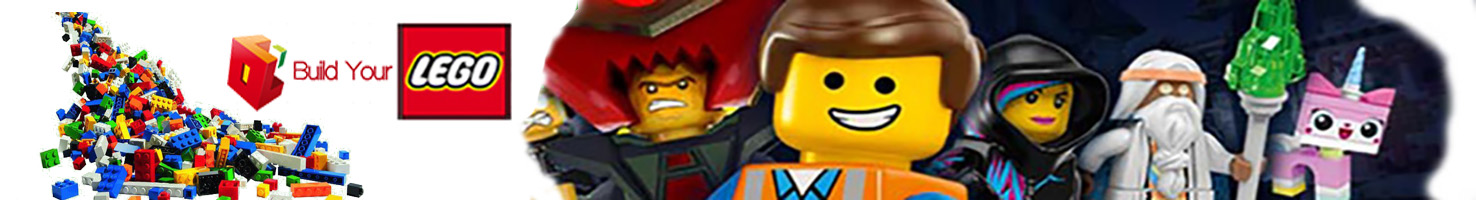
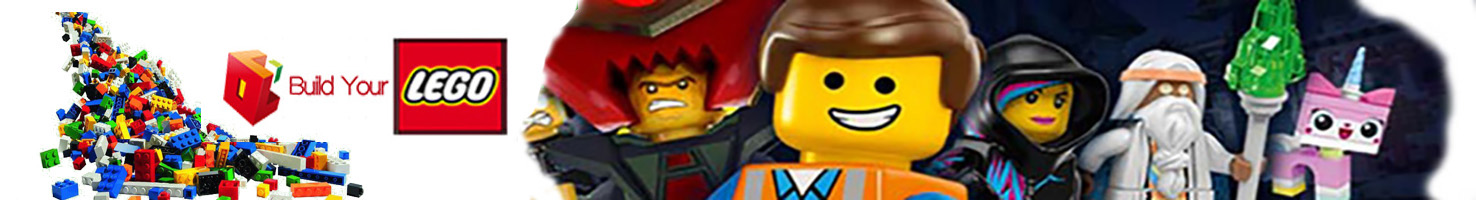
Petite modif banniere

Changed region(s): [[0.1247, 0.09, 0.374, 0.72]]

diff --git a/EcomLego/ecomweb/src/main/webapp/css/index.css b/EcomLego/ecomweb/src/main/webapp/css/index.css
@@ -13,7 +13,7 @@ body {
     -webkit-border-radius: 101px;
     -moz-border-radius: 101px;
     border-radius: 101px;
-    /* Bacground couleur dÃƒÂ©gradÃƒÂ© */
+    /* Bacground couleur dÃƒÆ’Ã‚Â©gradÃƒÆ’Ã‚Â© */
     /* background:-webkit-gradient(linear, 11% 56%, 10% 32%, from(#EBFFFF), to(#C9FFFF)); */
 
     /* Aligner pour que la barre de navigation haut ne parte pas en vrille */
@@ -231,12 +231,12 @@ a {
 -------------------------------------------------------------------------------------------------------------------------- */
 #header{
     display: inline-block;
-    width: 1100px;
+    width: 1160px;
     background-image: url(../img/banniere.jpg);
     height: 200px;
-    opacity: 0.9;
+    opacity: 1;
     z-index: -1;
-    margin: 0 auto; /*stretch banner*/
+    margin-left: 130px; /*stretch banner*/
    border:dotted 1px #b0cbeb;
     border:dotted 1px #b0cbeb;
     /* Bord arrondie */

diff --git a/EcomLego/ecomweb/src/main/webapp/partial-contactez-nous.html b/EcomLego/ecomweb/src/main/webapp/partial-contactez-nous.html
@@ -10,6 +10,6 @@ and open the template in the editor.
         <img src="img/lego-dark-knight-interrogation.jpg" alt="HTML5 Icon" style="width:500px;height:300px, alignment-adjust; ">
         <p> <p>
         <p align="left" style="padding-top: 50px;"> Pour un problème concernant les devis: contactez jerome-blabla@gmail.com <p> 
-    <p align="left"> Pour un problème lié à la qualité du produite: contactez service-client@legobuild.com </p>
-    <p align="left"> Pour tous  autre problèmes, vous pouvez nous appeler au : 04.87.54.63.45 appel gratuit en france métropolitaine. </p>
+    <p align="left"> Pour un problème lié à la qualité du produit: contactez service-client@legobuild.com </p>
+    <p align="left"> Pour tous autres problèmes, vous pouvez nous appeler au : 04.87.54.63.45 appel gratuit en france métropolitaine. </p>
 </div>
